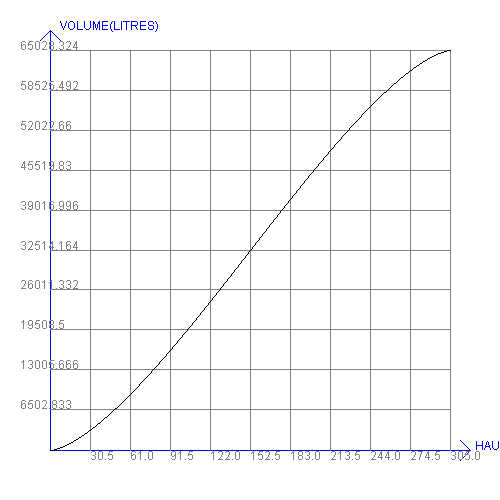
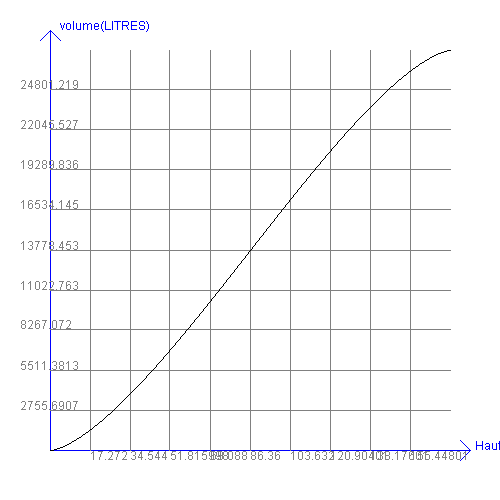
commit du 24/01/2025

diff --git a/src/nyettotank2/courbe/ZoneGeometrie.java b/src/nyettotank2/courbe/ZoneGeometrie.java
@@ -37,7 +37,7 @@ public class ZoneGeometrie extends JPanel {
 
         g.drawLine(470, 450, 50, 450);
         g.drawLine(50, 450, 50, 30);
-        g.drawString(manageInternationalize.translate("hauteur") + "(" + uniteHeight.toUpperCase() + ")", 475, 450);
+        g.drawString(manageInternationalize.translate("hauteur") + "(cm)", 475, 450);
         g.drawString( manageInternationalize.translate("volume") + "(" + uniteVolume.toUpperCase() + ")", 60, 30);
 
         String formeCapacite = info.get("forme de la capacite").toString().toUpperCase();
@@ -96,7 +96,7 @@ public class ZoneGeometrie extends JPanel {
         while (initial <= diametreUnite) {
             int x1 = (int) (initial * 400 / diametreUnite);
 
-            g.drawString("" + initial, (int) (50 + initial * 400 / diametreUnite), 460);
+            g.drawString("" + twoDecimale(initial, uniteHeight) , (int) (50 + initial * 400 / diametreUnite), 460);
             g.drawLine(x1 + 50, 450, 50 + x1, 50);
             initial += pas;
 
@@ -107,7 +107,7 @@ public class ZoneGeometrie extends JPanel {
         while (initial <= volFull) {
             int y1 = (int) ((int) 450 - 400 * initial / volFull);
 
-            g.drawString("" + initial, 20, (int) (450 - 400 * initial / volFull));
+            g.drawString("" + twoDecimale(initial, uniteVolume), 20, (int) (450 - 400 * initial / volFull));
             g.drawLine(50, y1, 450, y1);
             initial += pas;
         }
@@ -125,7 +125,7 @@ public class ZoneGeometrie extends JPanel {
             float t = bareme.convertToUnitDesire(uniteHeight, increment);
             volCalcule = bareme.convertToVolumeDesired(uniteVolume, volCalcule / 1000);
 
-            courbe.lineTo(50 + t * 400 / diametreUnite, 450 - 400 * volCalcule / volFull);
+            courbe.lineTo(50 + increment * 400 / diametreUnite, 450 - 400 * volCalcule / volFull);
 
         }
 
@@ -133,6 +133,29 @@ public class ZoneGeometrie extends JPanel {
 
     }
 
+    public String twoDecimale(double vol_fleche, String typeValue) {
+        if (typeValue.equals("decimale")) {
+
+            String ch = "" + vol_fleche;
+            int pos = ch.indexOf(".");
+            if (pos >= 0) {
+                if ((ch.length() - pos) > 4) {
+                    return ch.substring(0, pos + 4);
+                } else {
+                    return ch;
+                }
+            }
+            return ch;
+
+        } else {
+
+            return String.valueOf((int) Math.floor(vol_fleche));
+
+        }
+
+    }
+
+   
     public boolean synonymeFormeCapaciteMultiLangueForCylindre(String formeCapacite) {
 
         if (formeCapacite.equalsIgnoreCase("Cylindrique") || formeCapacite.equalsIgnoreCase("Cylindrical") || formeCapacite.equalsIgnoreCase("Zylindrisch")) {

diff --git a/src/nyettotank2/metier/BaremeArtisan.java b/src/nyettotank2/metier/BaremeArtisan.java
@@ -1622,8 +1622,7 @@ public class BaremeArtisan {
                 for (int i = 0; i < (diametre / nb_divi); i++) {
 
                     sheet.addCell(new Label(3 * i + 4, 11,
-                            "H( " + info.get("unite des hauteurs").toString().toLowerCase()
-                            + " )"));
+                            "H(cm)"));
                     sheet.addCell(new Label(3 * i + 5, 11,
                             "V( " + info.get("unite de volume").toString().toLowerCase()
                             + ") "));

diff --git a/src/nyettotank2/courbe/ZoneVolume.java b/src/nyettotank2/courbe/ZoneVolume.java
@@ -38,7 +38,7 @@ public class ZoneVolume extends JPanel {
         g.drawLine(470, 450, 50, 450);
         g.drawLine(50, 450, 50, 30);
 
-        g.drawString(manageInternationalize.translate("hauteur") +"(" + uniteHeight.toUpperCase() + ")", 475, 450);
+        g.drawString(manageInternationalize.translate("hauteur") +"(cm)", 475, 450);
         g.drawString(manageInternationalize.translate("volume") +"(" + uniteVolume.toUpperCase() + ")", 60, 30);
 
         Graphics2D area = (Graphics2D) g;
